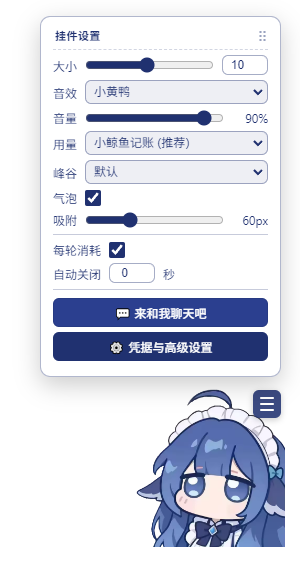
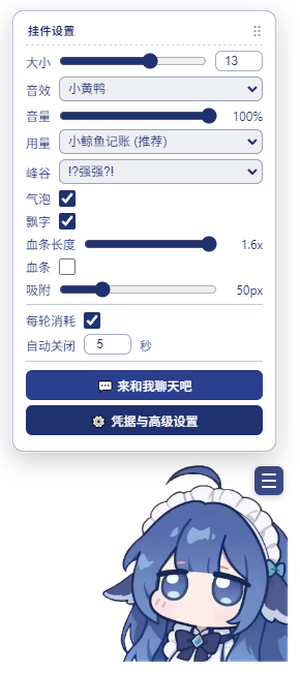
docs(readme): 正式版收尾 —— README 重写 + 效果实录素材，连击不再压住飘字
- README 特性区改为 9 条要点（突出 伤害飘字 / 血条可调 / 测试面板 / 穿透 / 吸附），
  新增「效果展示」区：伤害演示 GIF + 6 格预览图（飘字、血条、结算、摸头、菜单、测试面板）
- 新增素材 assets/preview-damage.gif（4.0s / ~740KB，浅底统一调色板）与 preview-damage.png；
  刷新 preview-menu.png（终于带上新增的 飘字 / 血条长度 / 血条 三行）、preview-bubble.png（含血条）
- Turn Cost API 补充 force 用法与等级判定规则：force 指定 > 缓存未命中/金额阈值
- fix(css): 连击徽章挪出飘字轨道 calc(2% - 95px) —— 原 top:2% 正好处在飘字
  从 11% 飞到 11%-78px 的路径中间，橙字叠橙字糊成一团（拍素材时发现）
- BUGFIX_LOG 同步连击位置修复与对比表条目

Changed region(s): [[0.03, 0.0, 0.96, 0.9982], [0.06, 0.6655, 0.09, 0.6957]]

diff --git a/src/renderer/css/widget.css b/src/renderer/css/widget.css
@@ -616,11 +616,14 @@ html, body {
   }
 }
 
-/* 连击计数（放在飘字层内，自动继承左吸附镜像还原） */
+/* 连击计数（放在飘字层内，自动继承左吸附镜像还原）
+   位置必须整体挪出飘字轨道：飘字从 top:11% 出生、一路飞到 11% - 78px，
+   正好穿过原来的 top:2% —— 实测两者叠在一起（橙字压橙字）糊成一团。
+   calc(2% - 95px) 在 0.6x~2.5x 全档都稳稳落在飘字最高点之上 15px 开外。 */
 .dshwv-combo {
   position: absolute;
   left: 50%;
-  top: 2%;
+  top: calc(2% - 95px);
   transform: translateX(-50%) scale(.78);
   white-space: nowrap;
   pointer-events: none;

diff --git a/README.md b/README.md
@@ -3,65 +3,83 @@
 # 🐋 DeepSeek 余额小鲸鱼桌面宠物
 ### DeepSeek Whale Girl Desk Pet
 
-常驻桌面的轻量无边框挂件 · API 余额实时监控 · 峰谷阶梯记账 · 对话消耗结算泡泡 · 像素级鼠标穿透
+**把 API 余额变成一只会掉血的小鲸鱼** —— 常驻桌面 · 余额实时监控 · 扣费即掉血 · 像素级穿透
 
 [![GitHub Release](https://img.shields.io/github/v/release/nayru77mi/deepseek-DesktopPet-Shimeji?style=flat-square&color=3b82f6)](https://github.com/nayru77mi/deepseek-DesktopPet-Shimeji/releases)
 [![License: MIT](https://img.shields.io/badge/License-MIT-green.svg?style=flat-square)](LICENSE)
-[![Electron](https://img.shields.io/badge/Electron-33.2.1-47848F?style=flat-square&logo=electron&logoColor=white)](https://electronjs.org/)
+[![Electron](https://img.shields.io/badge/Electron-33.4.11-47848F?style=flat-square&logo=electron&logoColor=white)](https://electronjs.org/)
 [![Platform: Windows](https://img.shields.io/badge/Platform-Windows-0078D6?style=flat-square&logo=windows&logoColor=white)](https://github.com/nayru77mi/deepseek-DesktopPet-Shimeji)
 [![DeepSeek API](https://img.shields.io/badge/API-DeepSeek-blue?style=flat-square)](https://platform.deepseek.com/)
 
 <br/>
 
-<img src="assets/DSH2.png" alt="DeepSeek 余额小鲸鱼" width="760" style="border-radius: 12px; box-shadow: 0 8px 24px rgba(0,0,0,0.15);" />
+<img src="assets/DSH2.png" alt="DeepSeek 余额小鲸鱼" width="720" style="border-radius: 12px; box-shadow: 0 8px 24px rgba(0,0,0,0.15);" />
 
 </div>
 
 ---
 
-## 📸 动态展示与使用图 (Showcase)
+## ✨ 特性 (Features)
+
+- 💥 **扣费即掉血** —— 伤害飘字三级配色（普通 / 重击 / 暴击），**缓存未命中自动判暴击**；配合鲸鱼受击抖动、`COMBO xN` 连击与打击音效，Token 消耗从数字变成打击感。
+- 🩸 **常驻血条** —— 余额 / 今日已用 直接换成血量，越低越红还会呼吸闪烁，峰谷徽章红绿切换；血条 **0.6x~1.6x 长度可调、按住左右拖动微调、一键显隐**，调整全程零窗口闪烁，绝不压住小鲸鱼、绝不拖出屏幕。
+- 🧪 **测试版面板** —— 自定义余额 + `💥 普通扣费` / `⚡ 暴击扣费` 一键演练分级动效；`--test` 启动即进测试模式，**不污染**日常配置。
+- 💬 **每轮对话结算** —— 本地 HTTP 监听（默认 `37189`），Cursor / AI 客户端 / 脚本推一笔 usage，桌宠立刻弹出结算泡泡。
+- 💰 **余额实时监控** —— 60 秒静默轮询 + 点击即刷，数字平滑滚动，断网自动沿用本地缓存。
+- 📊 **双模式记账** —— 「小鲸鱼记账」按余额差额本地累计；「实时·令牌」用平台 Token 按峰谷时段单价精确换算。
+- 🖱 **像素级穿透** —— 基于 Alpha 掩码的零延迟穿透，透明区域完全不挡桌面图标，仅悬停鲸鱼 / 气泡 / 菜单时接管鼠标。
+- 🖼 **边缘吸附与镜像** —— 贴屏自动吸附（0~200px 可调或关闭自由停靠），靠左吸附整体镜像翻转、文字自适应朝向。
+- ⚙ **菜单与托盘** —— 缩放 0.6x~2.5x、音效音量、吸附距离随手调；面板可自由拖拽、关闭自动复位，托盘一键复位 / 刷新 / 置顶。
+
+---
+
+## 📸 效果展示 (Showcase)
+
+<div align="center">
+  <img src="assets/preview-damage.gif" width="470" alt="伤害飘字演示" /><br/>
+  <sub>💸 <b>扣费即掉血</b>：普通 / 重击 / 暴击飘字 · 受击抖动 · COMBO 连击 · 血条实时扣减</sub>
+</div>
+
+<br/>
 
 <div align="center">
   <table>
     <tr>
       <td align="center" width="25%" valign="top">
-        <img src="assets/rua.gif" width="160" alt="摸头交互" /><br/>
-        <b>🧸 摸头解压交互</b><br/>
-        <sub>按压形变、音效与萌系台词</sub>
+        <img src="assets/preview-damage.png" width="180" alt="伤害飘字与连击" /><br/>
+        <b>💥 飘字与连击</b><br/>
+        <sub>三级配色 · 缓存未命中判暴击</sub>
       </td>
       <td align="center" width="25%" valign="top">
-        <img src="assets/preview-bubble.png" width="170" alt="余额实时监控" /><br/>
-        <b>💰 余额实时监控</b><br/>
-        <sub>平滑数字滚动与峰谷记账</sub>
+        <img src="assets/preview-bubble.png" width="190" alt="余额血条" /><br/>
+        <b>🩸 余额血条</b><br/>
+        <sub>血量可视化 · 越低越红 · 峰谷徽章</sub>
       </td>
       <td align="center" width="25%" valign="top">
-        <img src="assets/preview-turn-cost.png" width="170" alt="每轮对话消耗" /><br/>
-        <b>💬 对话结算泡泡</b><br/>
-        <sub>外部 AI 对话实时推送消耗</sub>
+        <img src="assets/preview-turn-cost.png" width="150" alt="每轮对话消耗" /><br/>
+        <b>💬 结算泡泡</b><br/>
+        <sub>外部工具推送 · 即时弹出</sub>
+      </td>
+    </tr>
+    <tr>
+      <td align="center" width="25%" valign="top">
+        <img src="assets/rua.gif" width="140" alt="摸头交互" /><br/>
+        <b>🧸 摸头解压</b><br/>
+        <sub>按压形变 · 音效与萌系台词</sub>
       </td>
       <td align="center" width="25%" valign="top">
-        <img src="assets/preview-menu.png" width="150" alt="汉堡设置面板" /><br/>
+        <img src="assets/preview-menu.png" width="104" alt="汉堡设置面板" /><br/>
         <b>⚙ 自由汉堡菜单</b><br/>
-        <sub>缩放/音效/吸附随心调</sub>
+        <sub>大小 / 飘字 / 血条随心调 · 可拖拽</sub>
+      </td>
+      <td align="center" width="25%" valign="top">
+        <img src="assets/preview-settings.png" width="190" alt="测试版面板" /><br/>
+        <b>🧪 测试版面板</b><br/>
+        <sub>自定义余额 · 普通/暴击一键演练</sub>
       </td>
     </tr>
   </table>
 </div>
-
----
-
-## ✨ 核心特性 (Features)
-
-| 功能模块 | 特性说明 |
-| :--- | :--- |
-| 🎯 **透明常驻 & 像素穿透** | 基于 Alpha 掩码预计算的零延迟穿透技术。透明区域完全不遮挡桌面图标与操作，仅悬停在鲸鱼实体、气泡与菜单时响应交互。 |
-| 💰 **API 余额变动监控** | 60 秒静默轮询 + 点击即时刷新。余额变动带平滑数字滚动动画，遇网络抖动自动沿用本地缓存。 |
-| 📊 **今日已用统计（双模式）** | **小鲸鱼记账（推荐）**：无需网页 Token，根据余额差额本地自动累计，跨天自动归档。<br/>**实时·令牌**：支持填入平台 Token 调取官方接口，按峰谷时段单价（9-12点、14-18点 / 闲时）精确换算。 |
-| 💬 **每轮对话结算泡泡** | 内置本地轻量 HTTP 监听（默认端口 `37189`），外部工具（Cursor、AI 客户端、本地脚本）完成对话后即可推送 usage，桌宠即刻弹出消耗结算气泡。 |
-| 💥 **伤害飘字与受击反馈** | 扣费瞬间头顶弹出游戏风伤害数字：普通 / 重击 / 暴击三级配色，**缓存未命中自动升为暴击**；伴随鲸鱼受击抖动、`COMBO xN` 连击计数与打击音效，深色胶囊**常驻血条**实时下降（越低越红）、峰谷徽章红绿切换，右端恒定避开小鲸鱼、长度 0.6x~1.6x 可调。汉堡菜单「飘字 / 血条长度」随心调节。 |
-| 🧪 **测试版面板** | 设置中心内置测试模式：**自定义余额**、单次扣费金额、`💥 普通扣费` / `⚡ 暴击扣费` 两个按钮强制分级，血条随点击实时扣减；用 `--test` 启动参数秒进测试模式且**不污染**日常配置。<br/>**血条可调**：汉堡菜单「血条」一键显隐、「血条长度」0.6x~1.6x，位置**直接按住血条左右拖动**（手型指针提示可拖）。窗口已按最远位移预留宽度，调整长度 / 拖动位置**全程零窗口 resize**（不会一闪一闪），且绝不压到小鲸鱼、绝不拖出屏幕。 |
-| 🖱 **60fps 吸附与左侧镜像** | 靠近屏幕四周与角落自动吸附（支持 0~200px 自由调节或关闭自由停靠），靠左吸附时整体水平镜像翻转并自适应文字朝向。 |
-| ⚙ **汉堡菜单与系统托盘** | **汉堡菜单**：缩放（0.6x~2.5x）、音效、音量、吸附距离一键调节；面板支持自由拖拽且关闭后自动复位；底部提供「💬 来和我聊天吧」秒开官方网页端。<br/>**系统托盘**：一键「重置位置到右下角」、一键刷新余额、窗口置顶切换、独立设置中心。 |
 
 ---
 
@@ -84,6 +102,8 @@
 </div>
 
 > **🔑 配置密钥**：启动桌宠后，点击汉堡菜单底部 **「⚙ 凭据与高级设置」**（或右键托盘图标），填入你的 `DEEPSEEK_API_KEY`（形如 `sk-...`），点击保存即可开始监控。
+>
+> **🧪 想先看动效？** 设置中心里勾选「测试版面板」，或用 `DeepSeek余额小鲸鱼 1.1.0.exe --test` 启动，即可用自定义余额反复演练普通 / 暴击扣费。
 
 ---
 
@@ -106,7 +126,7 @@ pnpm run build:win
 
 ## 📡 对接外部对话消耗 (Turn Cost API)
 
-桌宠在本地启动了 HTTP 监听服务（默认 `http://127.0.0.1:37189`）。当外部应用或脚本完成一轮对话时，只需发送一个 POST 请求即可触发结算气泡：
+桌宠在本地启动了 HTTP 监听服务（默认 `http://127.0.0.1:37189`）。当外部应用或脚本完成一轮对话时，只需发送一个 POST 请求即可触发结算气泡与飘字：
 
 ```bash
 # 方式 1：直接发送消耗金额（元）
@@ -123,7 +143,14 @@ curl -X POST http://127.0.0.1:37189/api/turn-event \
     "usage": { "inputTokens": 1500, "outputTokens": 800 },
     "end": true
   }'
+
+# 方式 3：强制指定飘字等级（force: "crit" | "normal"）
+curl -X POST http://127.0.0.1:37189/api/turn-event \
+  -H "Content-Type: application/json" \
+  -d '{"amount": 0.35, "turn": 1, "end": true, "force": "crit"}'
 ```
+
+> **等级规则**：`force` 显式指定优先；否则 **金额 ≥ ¥0.1** 或 **缓存未命中**（`cache = 0` 且 token ≥ 800）判为暴击，**≥ ¥0.01** 为重击，其余为普通。
 
 ---
 
@@ -133,8 +160,9 @@ curl -X POST http://127.0.0.1:37189/api/turn-event \
 src/
 ├── main/                 # Electron 主进程 (窗口生命周期、系统托盘、余额轮询、峰谷计算引擎、HTTP 监听)
 ├── preload/              # 安全隔离 IPC 通信桥梁
-└── renderer/             # 挂件前端 (像素级穿透检测、Q弹音频池、拖拽吸附、设置面板)
-assets/                   # 应用图标、小鲸鱼精灵图、摸头动图、使用预览图与音效文件
+└── renderer/             # 挂件前端 (像素级穿透检测、Q弹音频池、伤害飘字、拖拽吸附、设置面板)
+assets/                   # 应用图标、小鲸鱼精灵图、摸头动图、README 预览图与音效文件
+scripts/                  # verify-damage / verify-resize 等 CDP 自动化验证工具
 ```
 
 ---

diff --git a/BUGFIX_LOG.md b/BUGFIX_LOG.md
@@ -285,7 +285,7 @@ if (d.type === 'turn/end' || d.event === 'turn/end' || d.end === true) {
 5. **血条式余额**：
    气泡金额下方新增血条，`剩余 = 余额 / (余额 + 今日已用)`，≤50% 转橙、≤20% 转红呼吸闪烁，右侧峰谷徽章随 `isPeak` 切换红绿；
 6. **连击计数**：
-   900ms 窗口内连续扣费累加 `COMBO xN`，1.6s 无新事件自动归零；
+   900ms 窗口内连续扣费累加 `COMBO xN`，1.6s 无新事件自动归零；位置用 `calc(2% - 95px)` **锁在飘字轨道之上** —— 飘字从 `top:11%` 出生、一路飞到 `11% - 78px`，原来的 `top:2%` 正好落在轨道正中间，实测橙字叠橙字糊成一团，新位置在 0.6x~2.5x 全档都与飘字最高点保持 15px 以上间距；
 7. **开关与配置**：
    汉堡菜单新增「飘字」开关，`damageOn` 字段入库 `config.json`，广播严格走 `save = false` 路径（防 BUG-002 递归）。
 
@@ -447,6 +447,7 @@ CDP 连续采样 `getWindowBounds()` + 视口尺寸实测（修复前）：
 | **血条可调性** | 固定位置、无法隐藏 | **一键显隐 + 滑条 / 直接按住左右拖拽微调，窗口自动加宽，绝不压鲸鱼、不出窗** |
 | **调整血条（长度 / 位置）** | 每次调整都 resize 透明窗口 → DWM 重建表面，一动就闪 | **窗口按血条最坏情况静态留宽，调长度 / 拖位置零 resize，纯 CSS 即时生效** |
 | **血条右侧可拖范围** | 按图片盒子留 8px，鲸鱼四周的透明留白全空着，血条贴不上去 | **按可见轮廓留位 + 受击抖动余量，1.8x 下上限 +7 → +18，仍绝不压住鲸鱼本体** |
+| **连击 COMBO 显示** | 与飘字轨道重叠，橙字压橙字糊成一团 | **锁在飘字最高点之上 15px，0.6x~2.5x 全档不重叠** |
 
 ---
 
